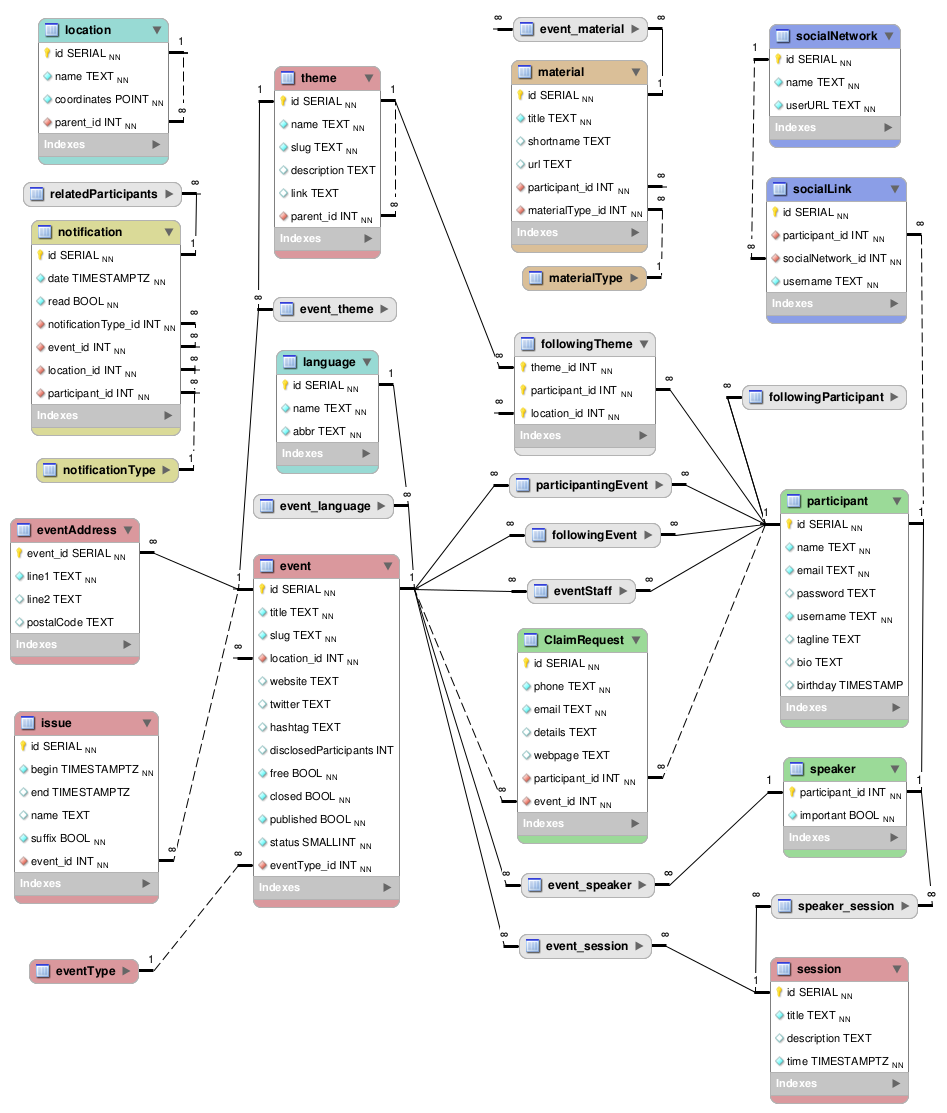
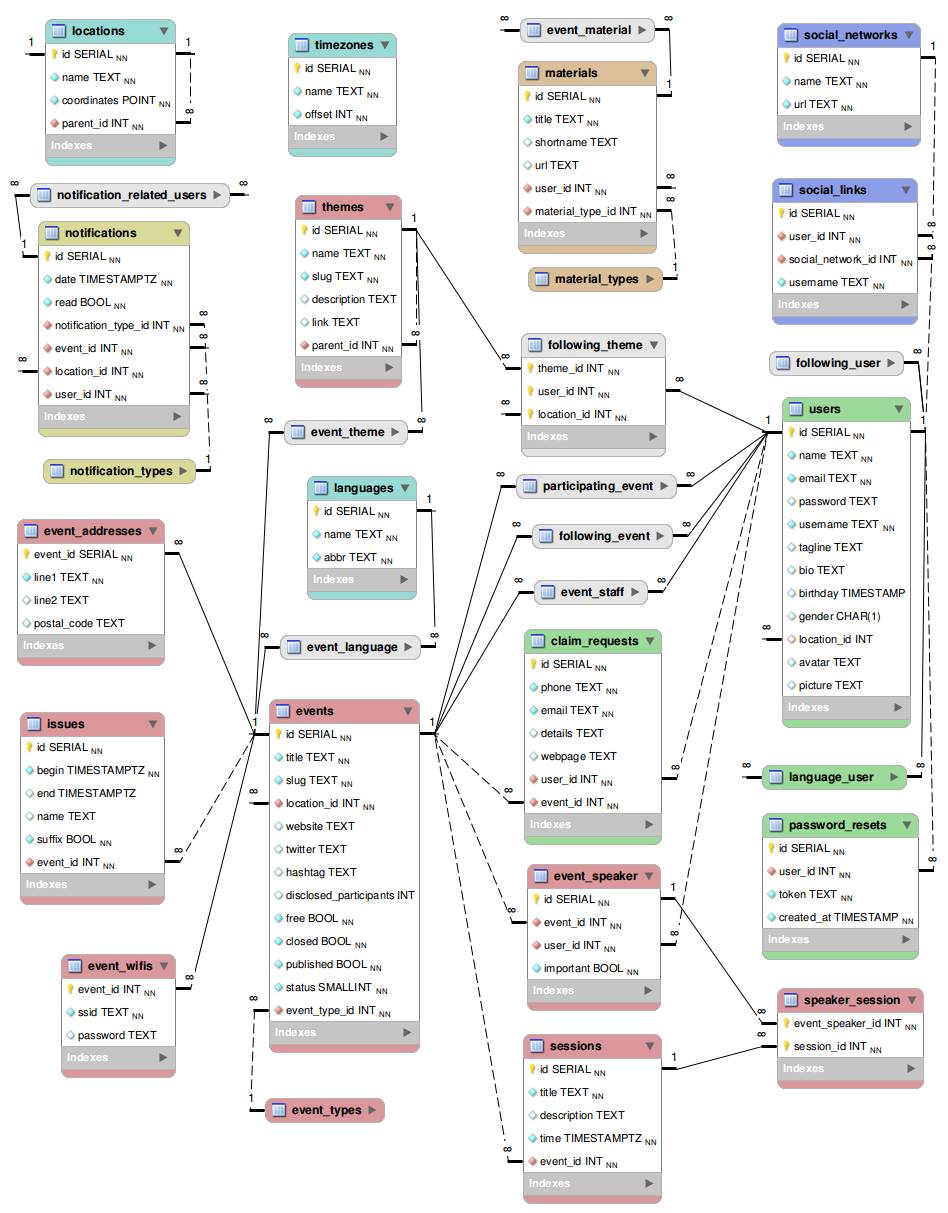
Finally adding migrations. The database is create through the first one. Password_resets table was also modified to sport an FK instead of plain email field. refs #58

diff --git a/database/migrations/2015_11_13_151000_create_password_resets_table.php b/database/migrations/2015_11_13_151000_create_password_resets_table.php
@@ -1,31 +1,19 @@
 <?php
-
 use Illuminate\Database\Schema\Blueprint;
 use Illuminate\Database\Migrations\Migration;
 
-class CreatePasswordResetsTable extends Migration
-{
-    /**
-     * Run the migrations.
-     *
-     * @return void
-     */
-    public function up()
-    {
+class CreatePasswordResetsTable extends Migration {
+
+    public function up() {
         Schema::create('password_resets', function (Blueprint $table) {
-            $table->string('email')->index();
+            $table->integer('user_id');
             $table->string('token')->index();
             $table->timestamp('created_at');
+            $table->foreign('user_id')->references('id')->on('users');
         });
     }
 
-    /**
-     * Reverse the migrations.
-     *
-     * @return void
-     */
-    public function down()
-    {
+    public function down() {
         Schema::drop('password_resets');
     }
 }

diff --git a/database/migrations/2015_11_13_150939_let_there_be_light.php b/database/migrations/2015_11_13_150939_let_there_be_light.php
@@ -1,0 +1,11 @@
+<?php
+use Illuminate\Database\Migrations\Migration;
+
+class LetThereBeLight extends Migration {
+
+    public function up() {
+        $sql = file_get_contents(__DIR__.'/../create.sql');
+        DB::connection()->getPdo()->exec($sql);
+    }
+
+}
